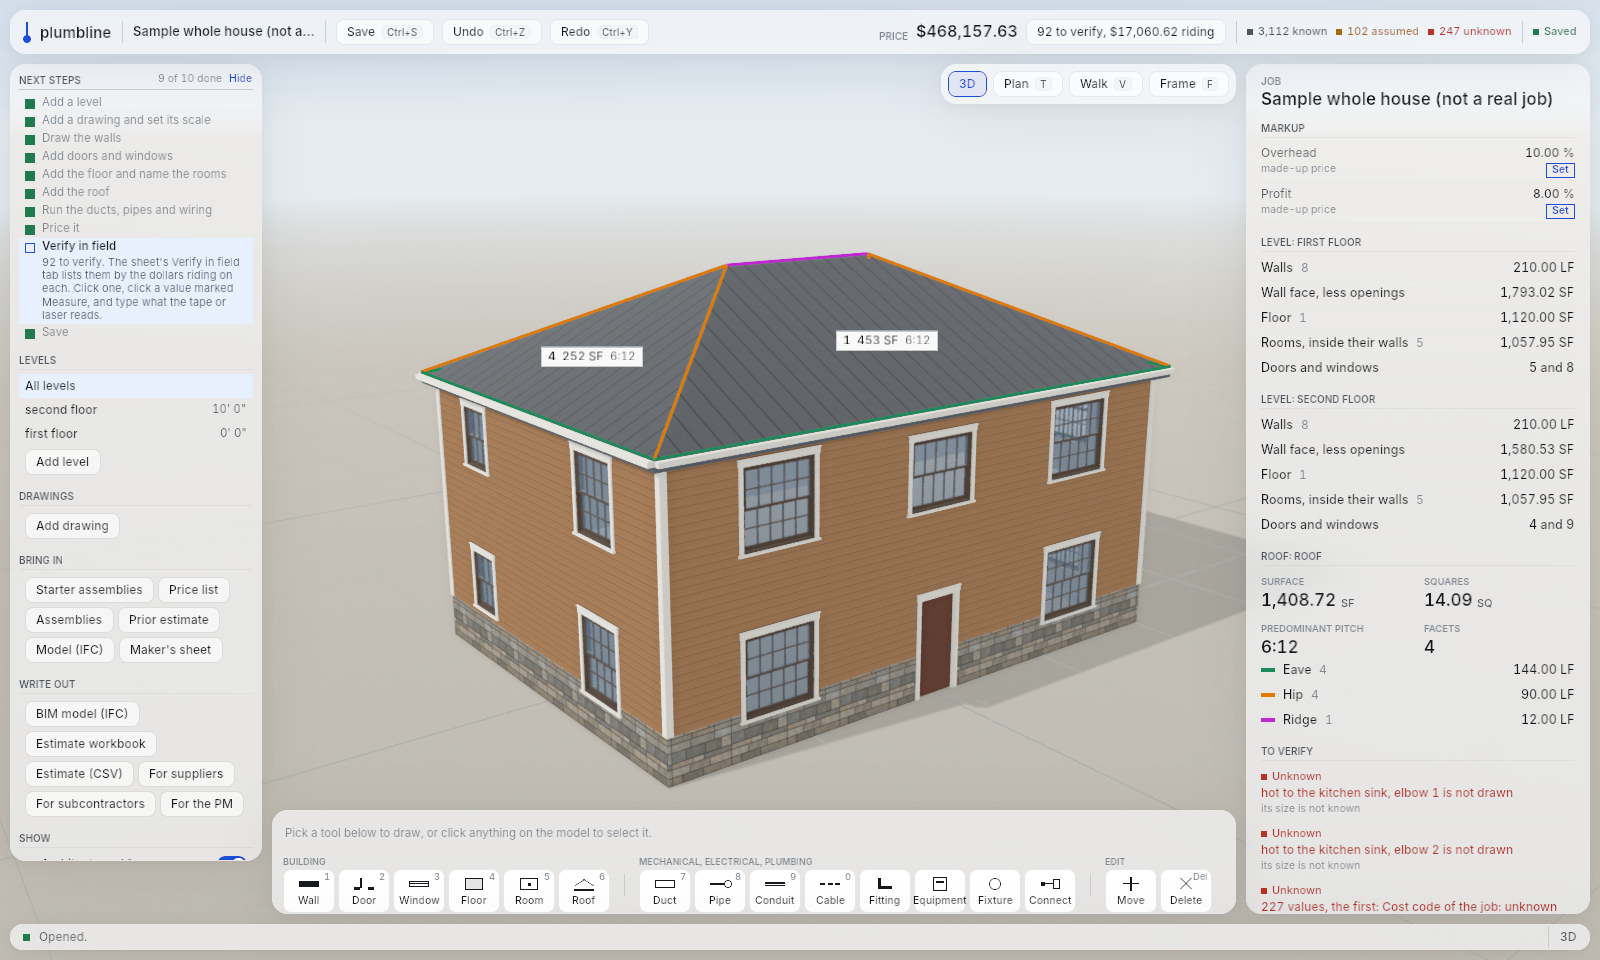
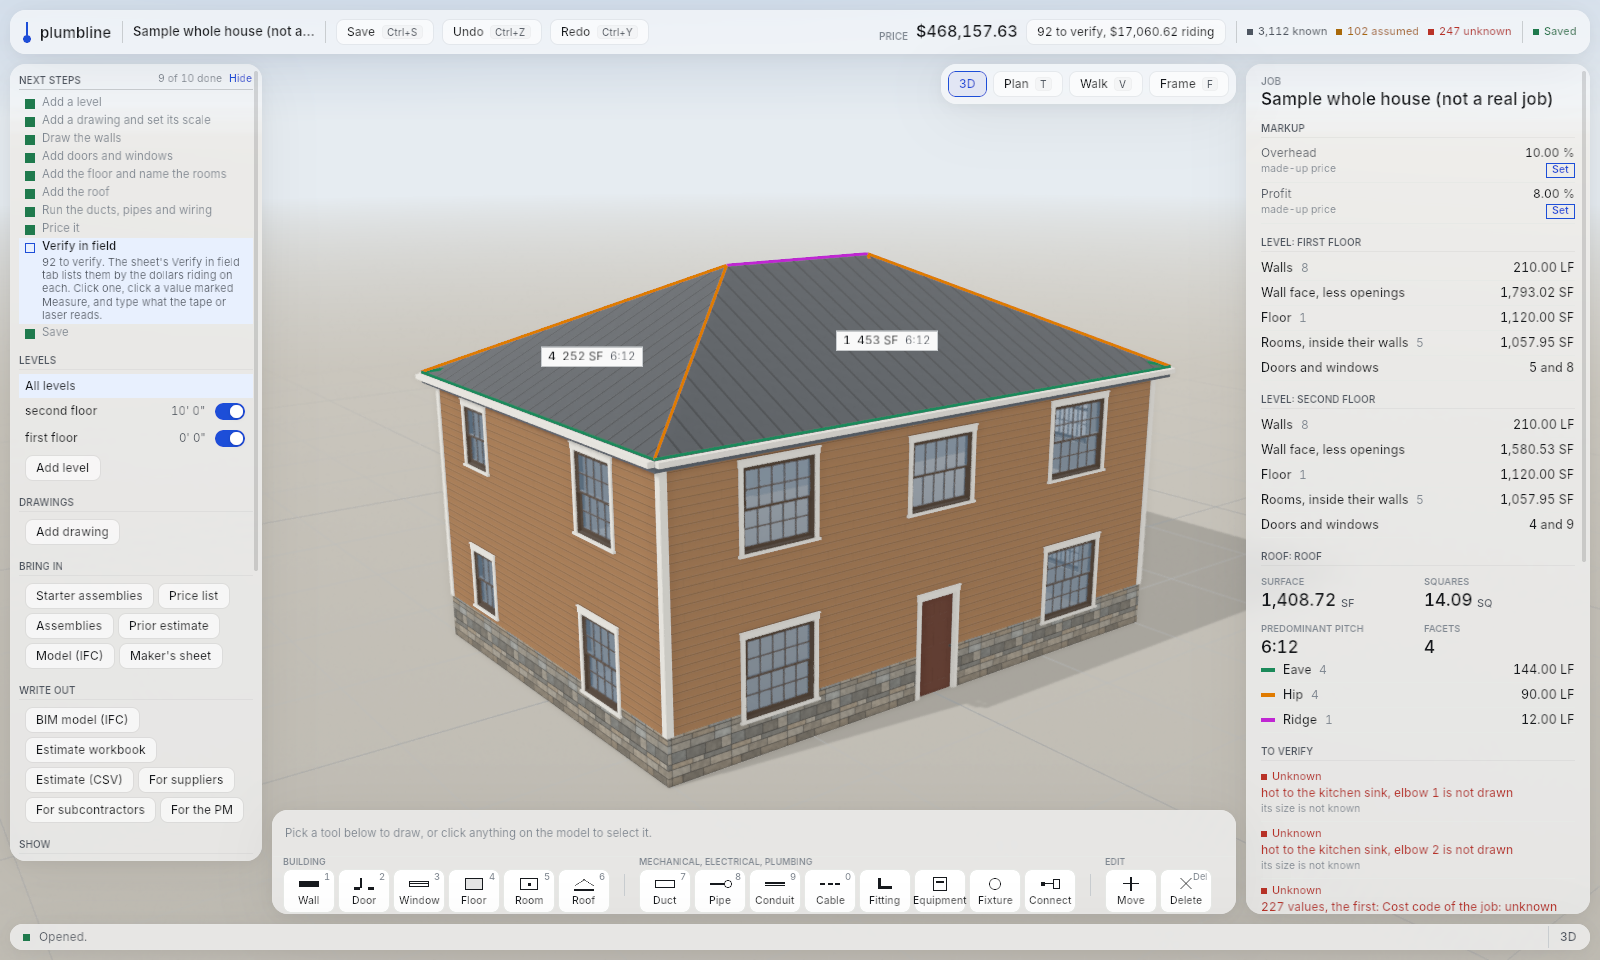
plumbline: the estimate window's tables and fields follow the model window's
Claude-Session: https://claude.ai/code/session_01PMY5GTDksocgFxqnWiqF81

Changed region(s): [[0.0, 0.5938, 0.1562, 0.9062], [0.0, 0.4375, 0.0625, 0.5938], [0.125, 0.4062, 0.1562, 0.4688]]

diff --git a/plumbline/crates/app/src/sheet.rs b/plumbline/crates/app/src/sheet.rs
@@ -69,9 +69,11 @@ fn cell(p: &mut ChildSpawnerCommands, width: f32, right: bool, build: impl FnOnc
 /// click on it opens it, and while it is being typed it shows what is typed.
 fn editable(c: &mut ChildSpawnerCommands, fonts: &Fonts, name: String, said: String, ink: Color, typed: Option<&str>, open: impl Fn(&mut Doc) + Send + Sync + 'static) {
     let mut e = c.spawn((
-        Node { padding: UiRect::axes(px(5.0), px(1.0)), border: UiRect::all(px(1.0)), align_items: AlignItems::Center, min_height: px(20.0), flex_shrink: 0.0, ..default() },
-        BorderColor::all(if typed.is_some() { theme::accent() } else { theme::hairline() }),
-        BackgroundColor(if typed.is_some() { theme::panel() } else { theme::field_paper() }),
+        // A field on the sheet looks like a field in the model window: round-cornered,
+        // a little whiter than what it sits on, edged in the accent while it is typed in.
+        Node { padding: UiRect::axes(px(7.0), px(2.0)), border: UiRect::all(px(1.0)), border_radius: BorderRadius::all(px(theme::SMALL_RADIUS)), align_items: AlignItems::Center, min_height: px(22.0), flex_shrink: 0.0, ..default() },
+        BorderColor::all(if typed.is_some() { theme::accent() } else { theme::control_edge() }),
+        BackgroundColor(if typed.is_some() { theme::panel() } else { Color::WHITE }),
         theme::Named { name, scrolls: true },
     ));
     e.with_children(|f| match typed {
@@ -131,7 +133,15 @@ fn row(p: &mut ChildSpawnerCommands, selected: bool, select: Option<String>, bui
 }
 
 fn table(p: &mut ChildSpawnerCommands, fonts: &Fonts, title: &str, count: String, build: impl FnOnce(&mut ChildSpawnerCommands)) {
-    p.spawn(theme::card(Node { flex_direction: FlexDirection::Column, overflow: Overflow::clip(), flex_shrink: 0.0, ..default() })).with_children(|c| {
+    // A table is a sheet of its own, lifted a little off the page: the estimate is dense
+    // text and is not glass, but it belongs to the same program (VISUAL.md F4).
+    p.spawn((
+        Node { flex_direction: FlexDirection::Column, overflow: Overflow::clip(), flex_shrink: 0.0, border: UiRect::all(px(1.0)), border_radius: BorderRadius::all(px(theme::BUTTON_RADIUS + 4.0)), ..default() },
+        BackgroundColor(Color::WHITE),
+        BorderColor::all(theme::control_edge()),
+        theme::card_shadow(),
+    ))
+    .with_children(|c| {
         c.spawn(Node { align_items: AlignItems::Baseline, column_gap: px(8.0), padding: UiRect { left: px(16.0), right: px(16.0), top: px(13.0), bottom: px(11.0) }, ..default() }).with_children(|h| {
             h.spawn(text(fonts, title, 14.0, Weight::Semibold, theme::ink()));
             h.spawn(text(fonts, count, 12.0, Weight::Regular, theme::ink_faint()));

diff --git a/plumbline/crates/app/src/theme.rs b/plumbline/crates/app/src/theme.rs
@@ -52,6 +52,13 @@ pub fn frost_edge() -> Color { Color::srgba(1.0, 1.0, 1.0, 0.72) }
 /// What sits on the glass and can be pressed: a little whiter than the glass.
 pub fn control() -> Color { Color::srgba(1.0, 1.0, 1.0, 0.62) }
 pub fn control_edge() -> Color { Color::srgba(0.07, 0.09, 0.12, 0.10) }
+/// The shadow under a card that lies on a page: slight, so a page of cards stays calm.
+pub fn card_shadow() -> BoxShadow {
+    BoxShadow(vec![
+        ShadowStyle { color: Color::srgba(0.05, 0.07, 0.10, 0.06), x_offset: px(0.0), y_offset: px(1.0), spread_radius: px(0.0), blur_radius: px(3.0) },
+        ShadowStyle { color: Color::srgba(0.05, 0.07, 0.10, 0.07), x_offset: px(0.0), y_offset: px(6.0), spread_radius: px(-3.0), blur_radius: px(16.0) },
+    ])
+}
 /// A hairline on glass.
 pub fn glass_rule() -> Color { Color::srgba(0.07, 0.09, 0.12, 0.09) }
 /// What is selected or in hand, on glass: a wash of the accent, never accent-coloured
@@ -65,7 +72,6 @@ pub fn panel_shadow() -> BoxShadow {
     ])
 }
 /// A field that can be typed in, at rest.
-pub fn field_paper() -> Color { hex(0xFAFAF8) }
 /// A hairline inside a panel, between rows.
 pub fn rule() -> Color { hex(0xE7E9E6) }
 pub fn hairline() -> Color { hex(0xC9CDD0) }

diff --git a/plumbline/VISUAL.md b/plumbline/VISUAL.md
@@ -122,8 +122,9 @@ themselves are named at the top of `crates/app/src/theme.rs`.
 3. **What can be typed is a field on its own line**, and looks like one.
 4. **It belongs to the same program.** Round corners, the same type, the same accent,
    the same depth. Dense text sits on a surface thick enough to read on; the estimate
-   is not glass, and it is not a grey web page either. (As of this writing this
-   window has not been touched by the rebuild; it fails this line.)
+   is not glass, and it is not a grey web page either. (As of this writing its
+   tables are round-cornered sheets lifted off the page and its fields are round;
+   its heading, its tabs and its foot are still flat strips, and fail this line.)
 
 ## How a screen is judged
 

diff --git a/plumbline/STATUS.md b/plumbline/STATUS.md
@@ -4398,3 +4398,8 @@ and NOTICE names the file.
   type; a flick that begins on a wall; a shapeless item set down; the file list; a
   half-filled form let go; carrying on plan and against a wall. These wait for the
   display.
+
+* **The estimate window, seen** (`demos/captured/glass/step6-estimate-window.png`): its
+  tables are white round-cornered sheets with a slight shadow, its fields are round,
+  hours read "480.00 hr", and it has its thumb at the right edge. Its heading, its
+  tabs and its foot are still flat strips (VISUAL.md F4 says so).
